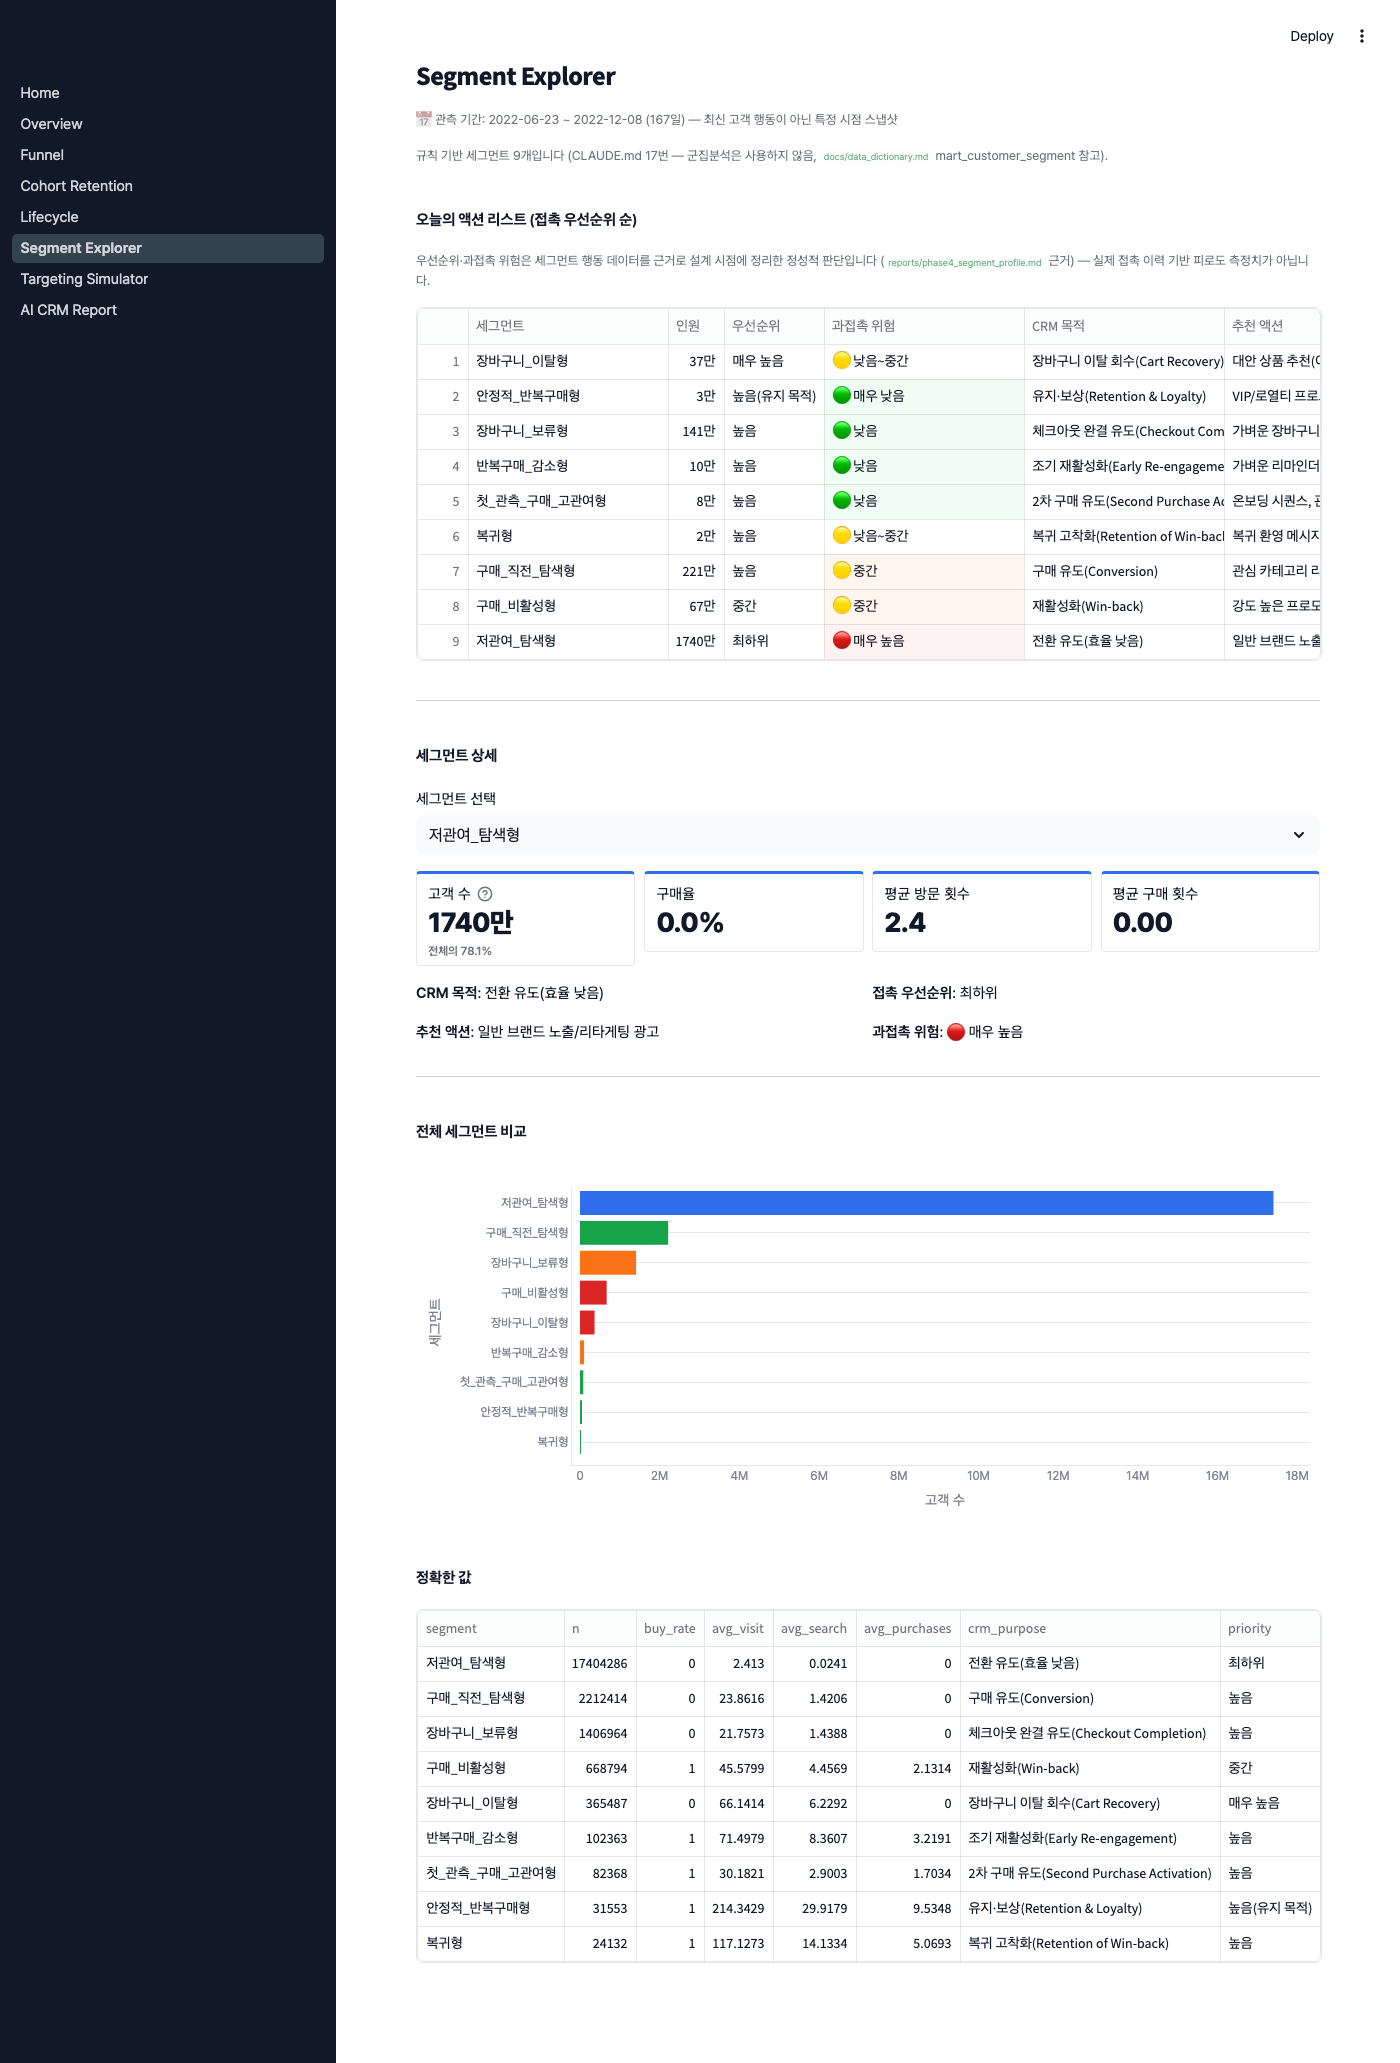
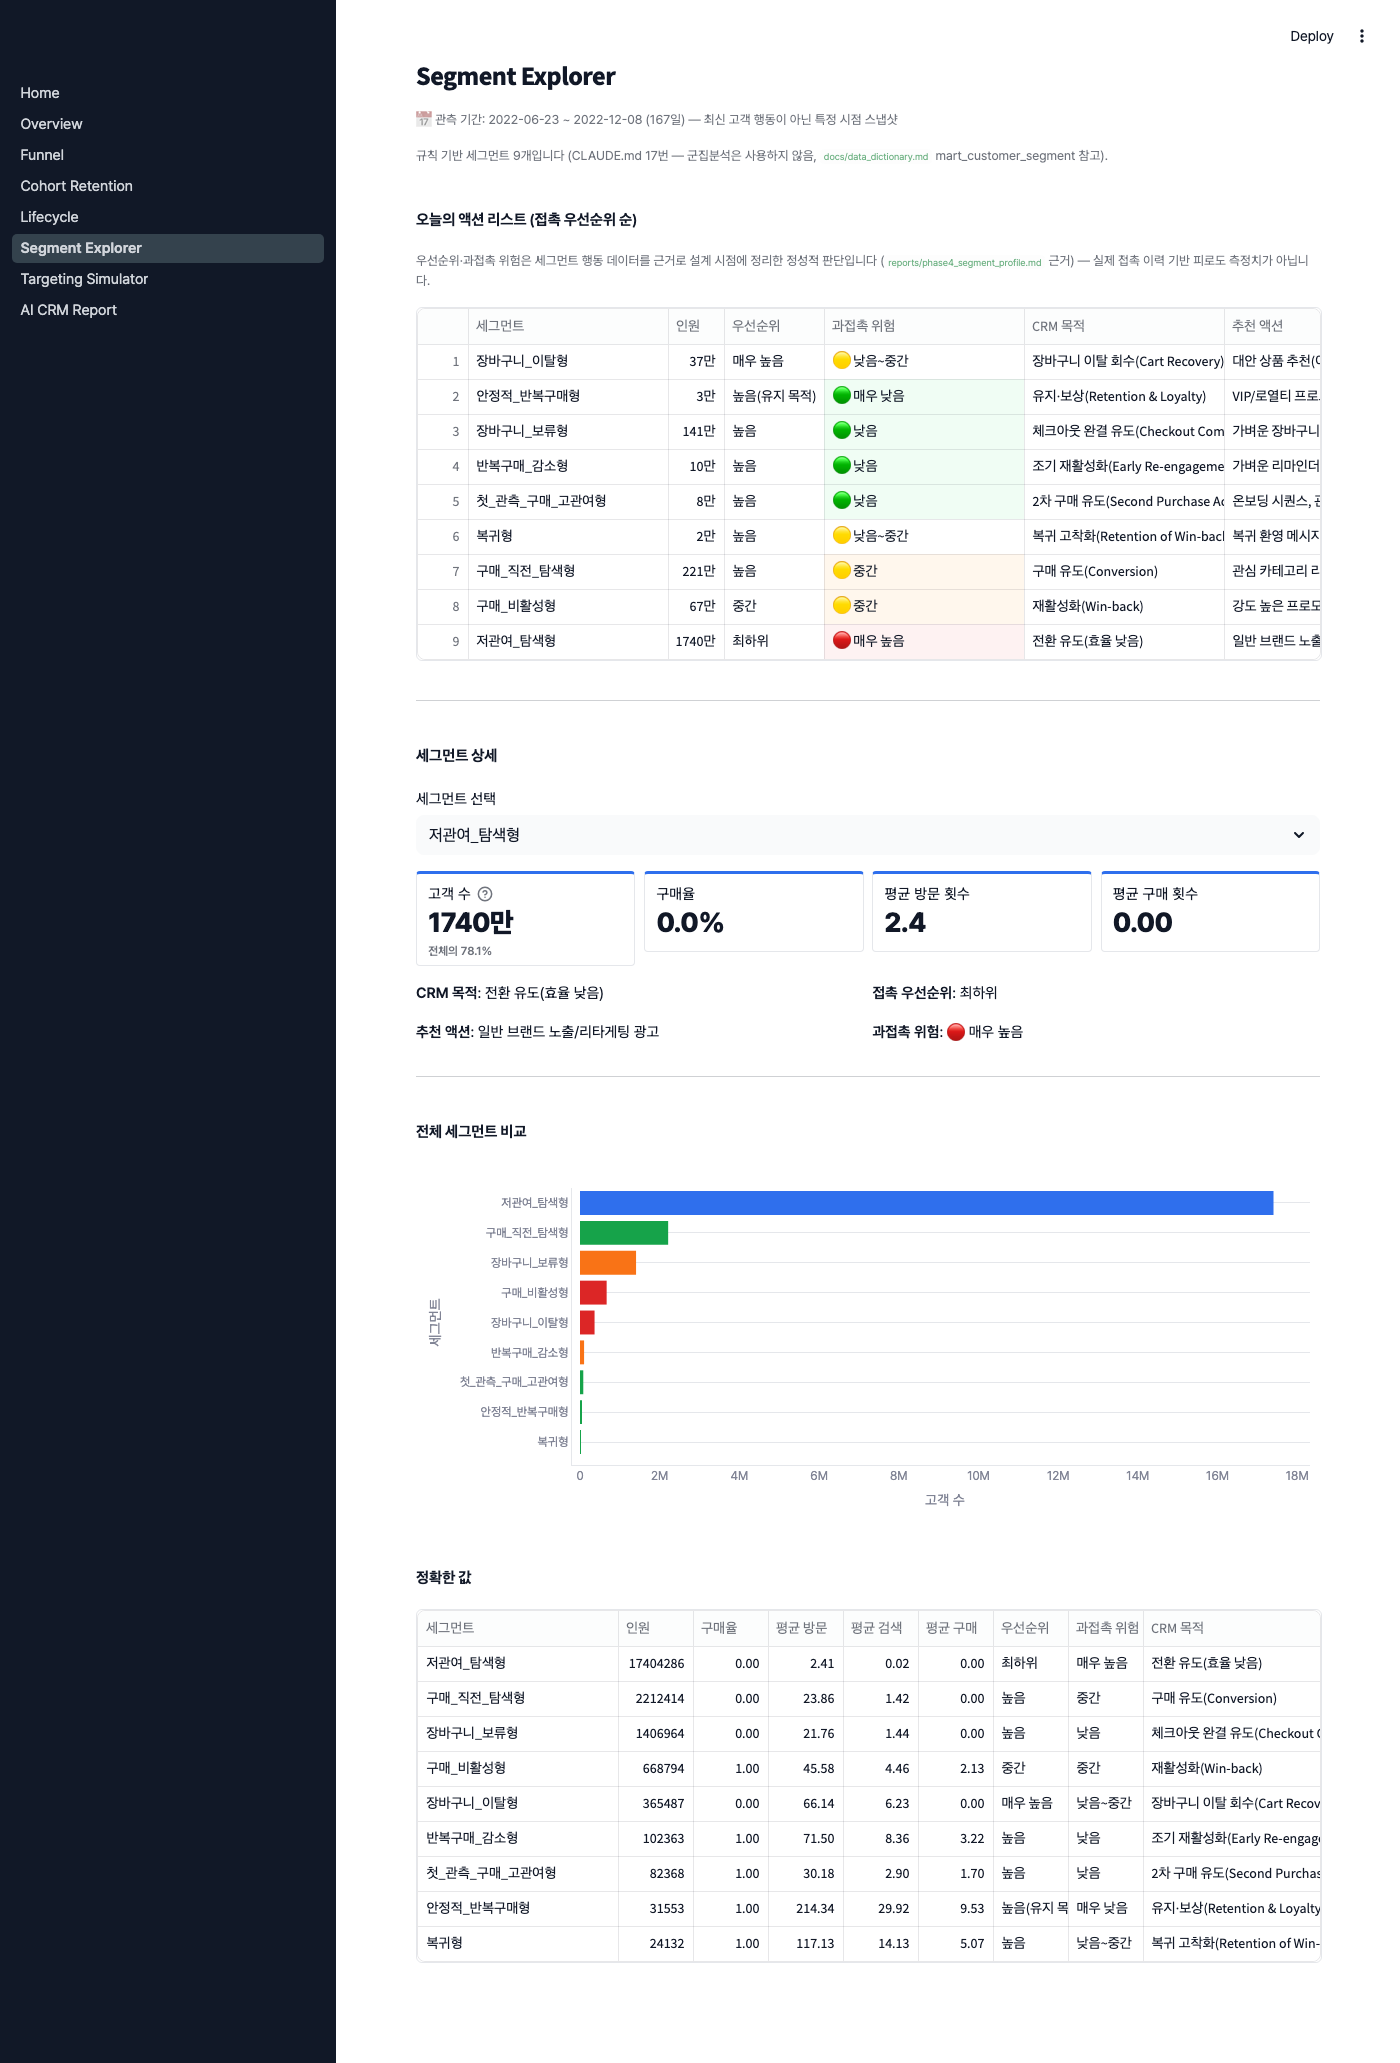
fix(dashboard): fix crm_purpose column truncation via explicit column widths

diff --git a/app/pages/5_Segment_Explorer.py b/app/pages/5_Segment_Explorer.py
@@ -129,6 +129,17 @@ st.plotly_chart(fig, use_container_width=True)
 st.subheader("정확한 값")
 st.dataframe(
     df[["segment", "n", "buy_rate", "avg_visit", "avg_search", "avg_purchases",
-        "crm_purpose", "priority", "over_contact_risk"]],
+        "priority", "over_contact_risk", "crm_purpose"]],
     use_container_width=True, hide_index=True,
+    column_config={
+        "segment": st.column_config.TextColumn("세그먼트", width="medium"),
+        "n": st.column_config.NumberColumn("인원", width="small", format="%d"),
+        "buy_rate": st.column_config.NumberColumn("구매율", width="small", format="%.2f"),
+        "avg_visit": st.column_config.NumberColumn("평균 방문", width="small", format="%.2f"),
+        "avg_search": st.column_config.NumberColumn("평균 검색", width="small", format="%.2f"),
+        "avg_purchases": st.column_config.NumberColumn("평균 구매", width="small", format="%.2f"),
+        "priority": st.column_config.TextColumn("우선순위", width="small"),
+        "over_contact_risk": st.column_config.TextColumn("과접촉 위험", width="small"),
+        "crm_purpose": st.column_config.TextColumn("CRM 목적", width="large"),
+    },
 )
